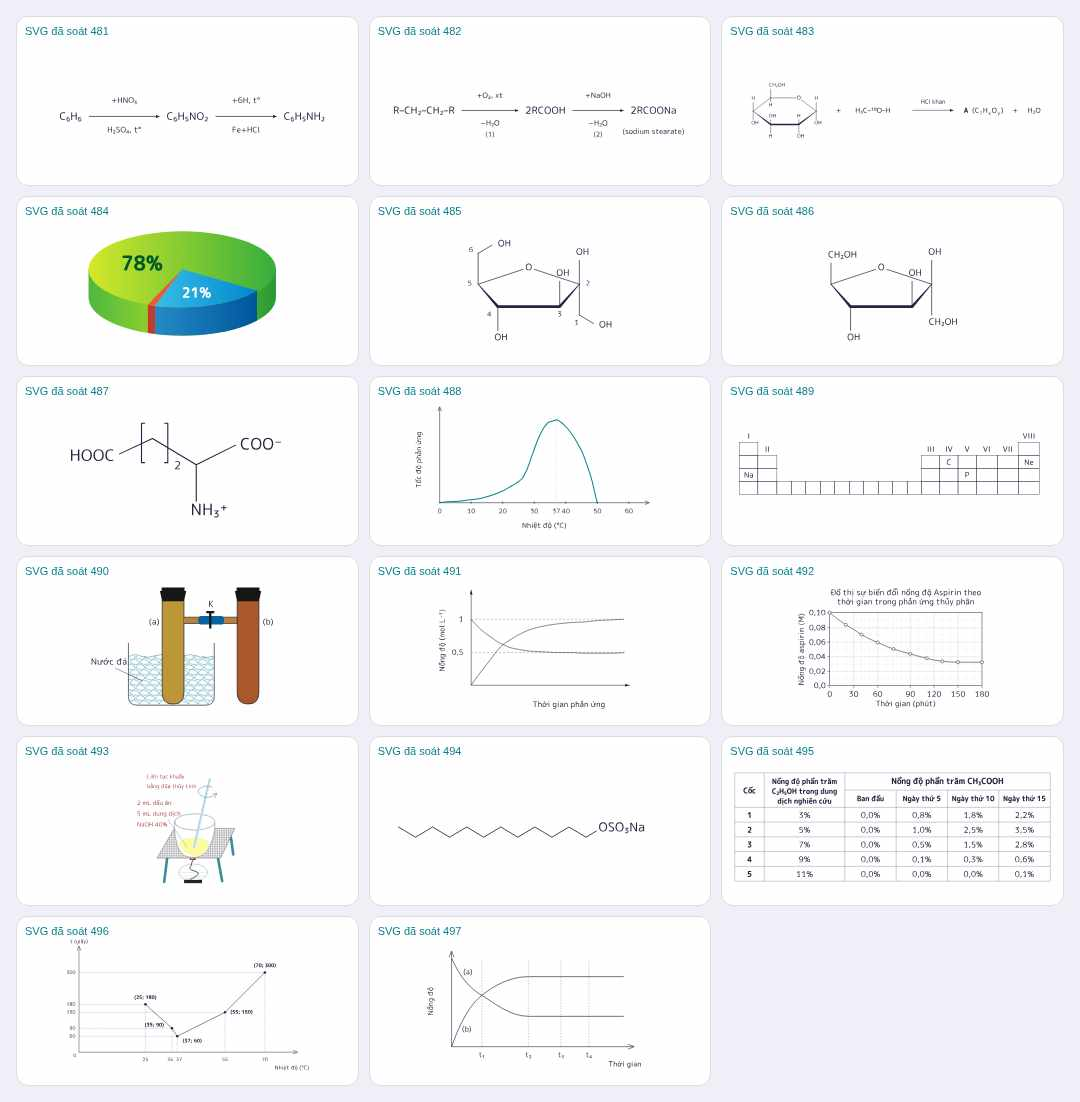
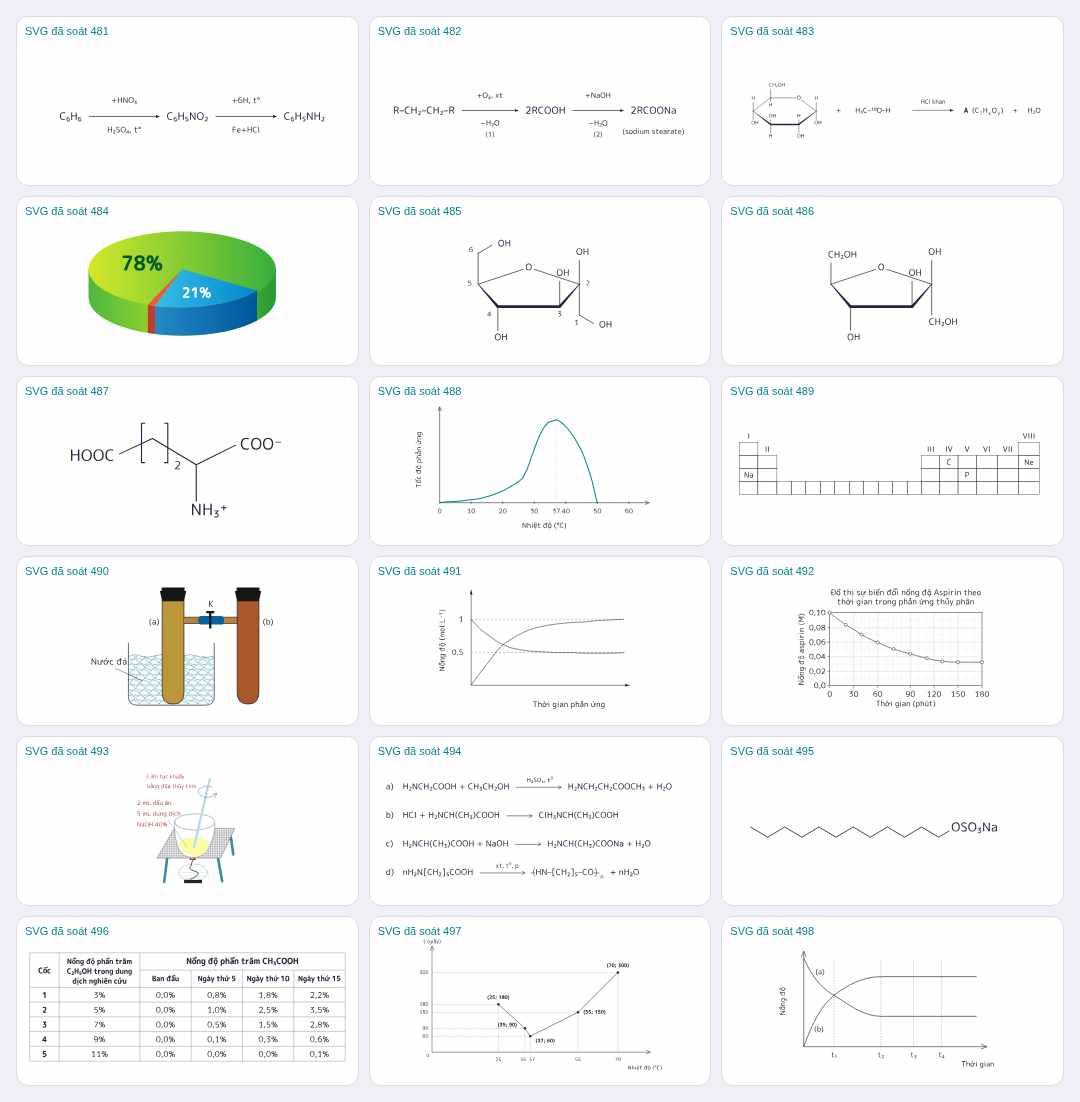
Vẽ và soát DDH lô159, đủ960câu

diff --git a/scripts/ve-phan-ung-ddh-lo-159-0311.py b/scripts/ve-phan-ung-ddh-lo-159-0311.py
@@ -1,0 +1,19 @@
+"""Bốn phản ứng literal nguồn1379, giữ cả sản phẩm sai-looking của đề."""
+from pathlib import Path
+import importlib.util,json,hashlib
+G=Path(__file__).resolve().parents[1];M=G/'docs/hinh-vector-0311/kiem';s=importlib.util.spec_from_file_location('phong',G/'scripts/phong-vector-0311.py');F=importlib.util.module_from_spec(s);s.loader.exec_module(F)
+r=next(r for r in json.loads((M/'doc-chi-tiet-con-lai-lo-155.json').read_text())if r['i']==1379)
+b='';size=32
+rows=[('a)','H₂NCH₂COOH + CH₃CH₂OH','H₂NCH₂CH₂COOCH₃ + H₂O','H₂SO₄, t'),('b)','HCl + H₂NCH(CH₃)COOH','ClH₃NCH(CH₃)COOH',''),('c)','H₂NCH(CH₃)COOH + NaOH','H₂NCH(CH₃)COONa + H₂O',''),('d)','nH₂N[CH₂]₅COOH','','xt, t')]
+for j,(cap,left,right,cond) in enumerate(rows):
+ y=90+j*110;b+=F.label(30,y,cap,size,'start')+F.label(95,y,left,size,'start');x=95+F.advance(left,size)+25;ln=175 if cond else 100;end=x+ln
+ b+=f'<path d="M{x} {y-8}H{end}m-12 -7l12 7l-12 7" fill="none" stroke="#252440" stroke-width="2"/>'
+ if cond:
+  cx=(x+end)/2;b+=F.label(cx,y-28,cond,23)
+  xx=cx+F.advance(cond,23)/2;b+=F.label(xx,y-39,'0',15,'start')
+  if j==3:b+=F.label(xx+F.advance('0',15),y-28,', p',23,'start')
+ if j<3:b+=F.label(end+25,y,right,size,'start')
+ else:
+  px=end+40;inside='HN–[CH₂]₅–CO';w=F.advance(inside,size);b+=F.label(px,y,inside,size,'start');b+=f'<path d="M{px-18} {y-8}H{px}M{px+w} {y-8}H{px+w+22}M{px-2} {y-28}q-12 17 0 35M{px+w+5} {y-28}q12 17 0 35" fill="none" stroke="#252440" stroke-width="2"/>';b+=F.label(px+w+25,y+14,'n',22,'start')+F.label(px+w+62,y,'+ nH₂O',size,'start')
+raw=('<svg xmlns="http://www.w3.org/2000/svg" width="1250" height="470" viewBox="0 0 1250 470"><title>Bốn phản ứng theo nguồn, giữ nguyên từng công thức</title>'+b+'</svg>').encode();hh=hashlib.sha256(raw).hexdigest();fn='phan-ung-ddh-'+hh+'.svg';(M/fn).write_bytes(raw);r.update(svg=fn,hashSvg=hh,byteSvg=len(raw),font='DDH Rounded',hashPhong=F.HASH,trangThai='cho-soat-doc-lap',ghiChuDung='4rowsa-d;productaH2NCH2CH2COOCH3literal/productbClH3NCH(CH3)COOHnochargethêm;polymerHN[CH2]5CO/ngoặcn/stubs/+nH2O,conditionsH2SO4t0 vàxtt0p.')
+(M/'cau-truc-phan-ung-ddh-lo-159-ban-dung.json').write_text(json.dumps([r],ensure_ascii=False,indent=2))

diff --git a/DIEU-PHOI.md b/DIEU-PHOI.md
@@ -1223,3 +1223,10 @@ Phân vùng dự kiến theo hai bản thiết kế:
 -82giữ5dòngđỏ/2mL5mL40%/rod-stirarrow/mesh3chân/lamp;đãsửagapchữtinh–arrow bằngsize16hai dòngtrên.587giữ6labels/2stands/flaskmeshspiritlamp/condenser/OUTupperINlower/receiverwoodblock;đãbổsungkẹpstandphải trướcống,khôngthêmthermometer/numbers/countgiọtmờ. Tác tử chỉđọc soát RIÊNGPNGnative/renderfresh/exacthashđạt;2bảncũCầnsửa lưu riêngBỊLOẠI,khôngchọn.
 - Chromium497/497/hash/XML/path/PythonAST/build/tốcđộđạt;precache170/2613.23KiB. Mainfetch0200b893chưagộp,WOFF2khôngdiff;phải sofulltesttheotên/mainmới+ca thi trước triểnkhai. Chưa tích hợp/chưa reloadofflineapp/chưa phát hành. Chưa tham vấn được cố vấn.
 -Nhóm149xong14/20,còn1024/1259/1014/1379/7/209 từgeometry155;1014composite cầnraster+DDHannotations,chưađạt.59/1391vẫnbịloạiphongcách,khôngđoán/hạgate.
+
+
+### 04/11 — Vector lô159: bốn phản ứng literal nguồn1379
+- Thêm1nguồn/1SVG/2câu;960câu đủ mọi hình+DDH/7mộtphần;739nguồn→498SVG,7.400.833byte/gzip1.487.957,còn689nguồn.
+- GiữproductaH2NCH2CH2COOCH3sai-looking,bClH3NCH(CH3)COOHliteral/khôngcharge;đủ4rowa-d/conditions/ngoặcpolymern/stubs/+nH2O. Tác tử chỉđọc mởPNGnative/full+actualrenderSVG/exacthash50c4de…a96566đạt. Không sửa hóa học/đápán.
+- Chromium498/498/hash/XML/path/PythonAST/build/tốcđộđạt/precache170/2613.23KiB. Mainfetch0200b893chưa gộp/WOFF2khôngdiff;phải cậpnhậtmainmớinhất/sotesttheotên/kiểmcathi trước triểnkhai. Chưa tíchhợp/chưa reload offlineapp/chưa phát hành. Chưa tham vấn được cố vấn.
+- Nhóm149xong15/20,còn1024/1259/1014/7/209;59/1391vẫn bịloạiphongcách,khôngđoán/hạgate.
